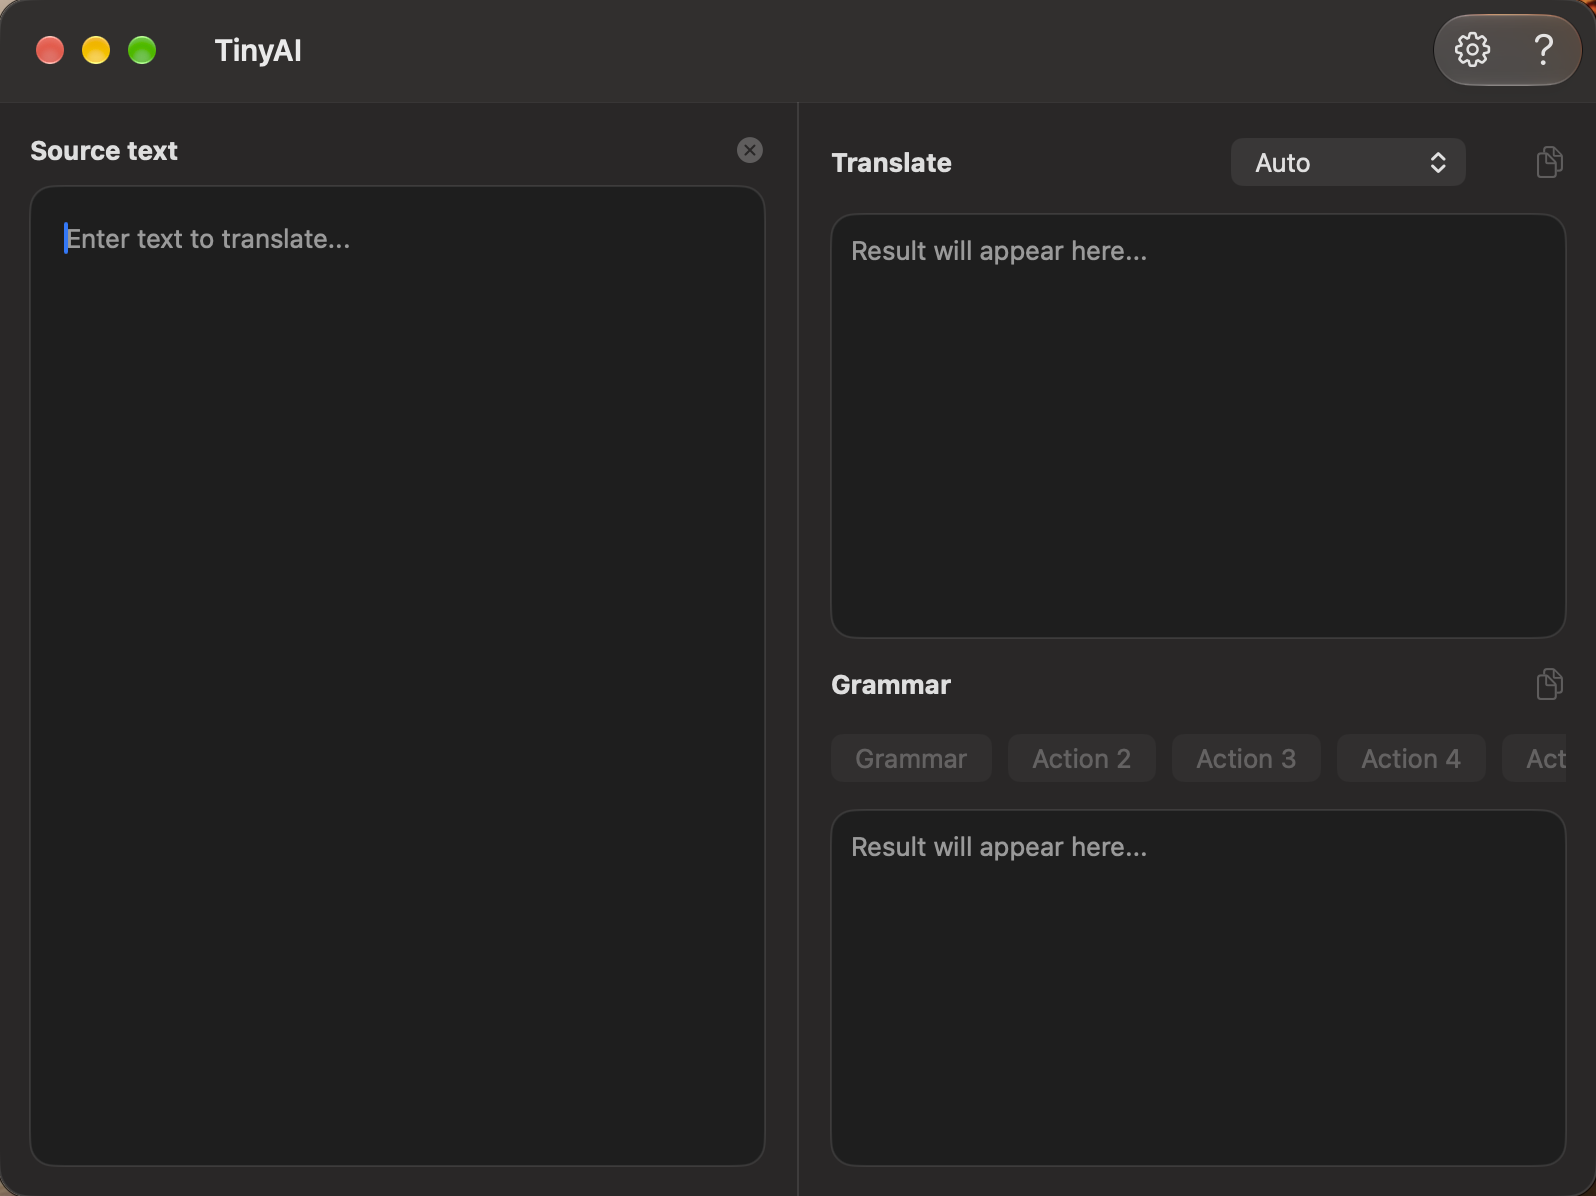
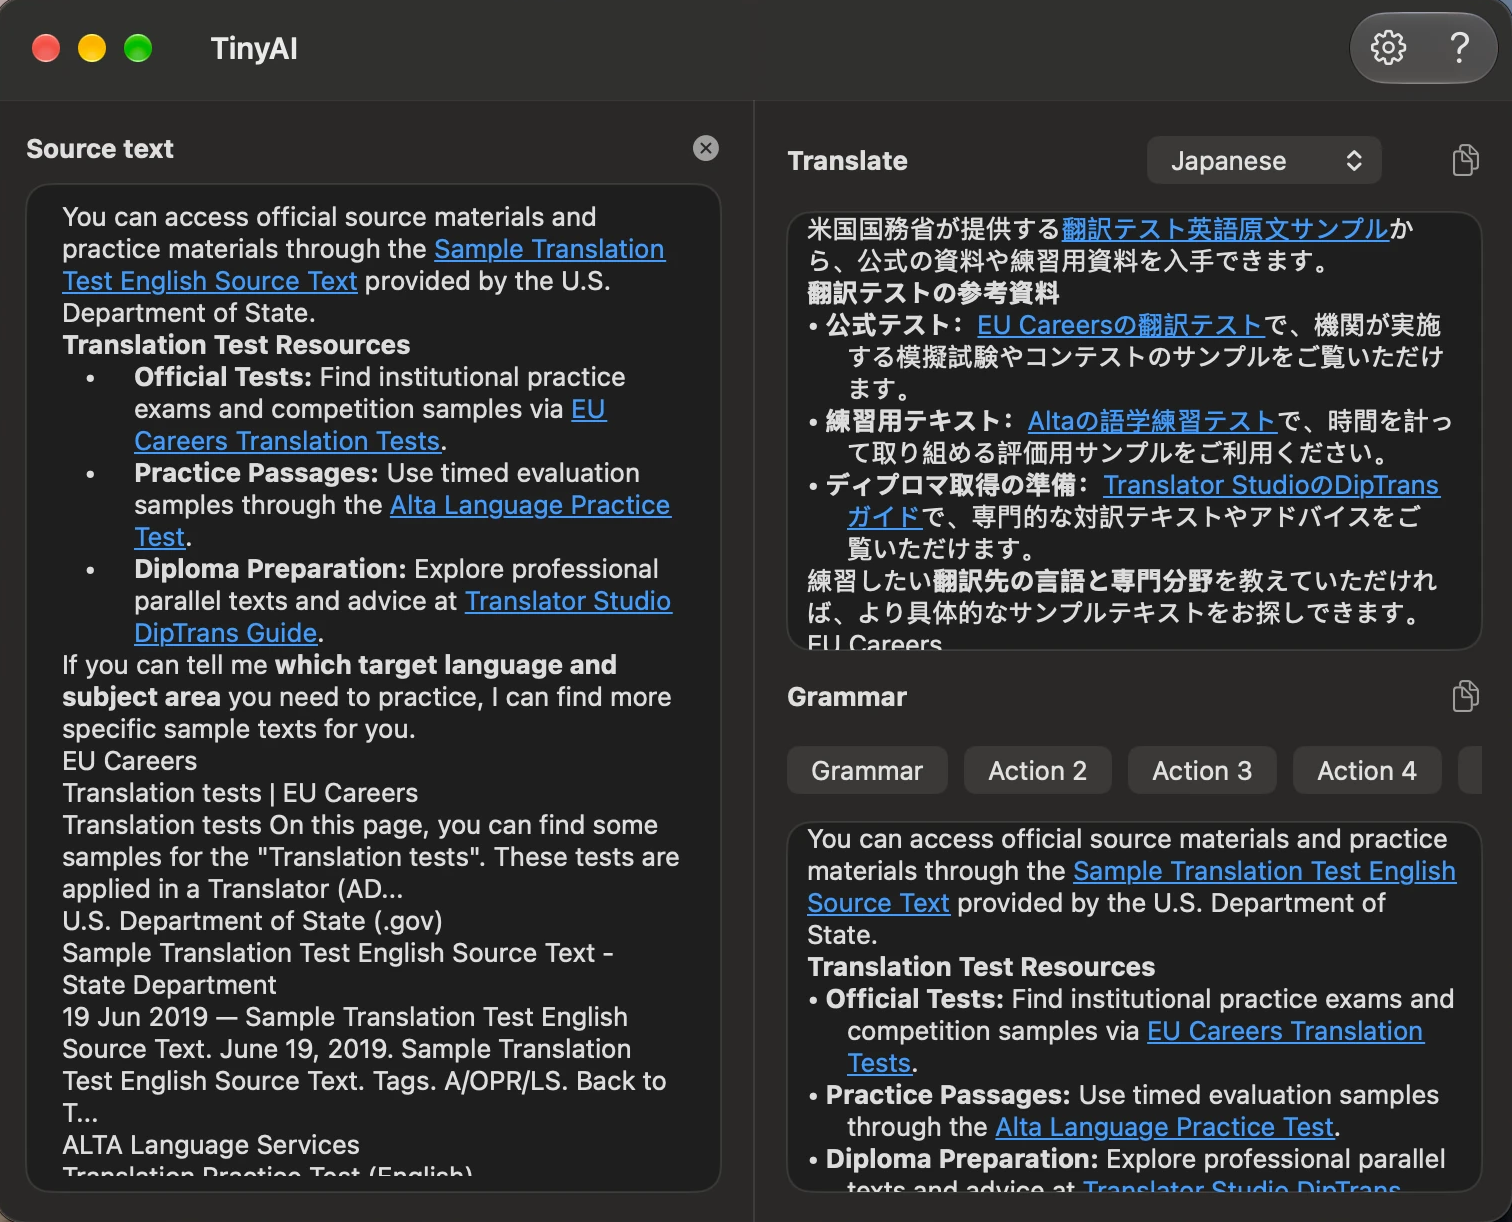
Show a filled main window in the README screenshot

diff --git a/README.md b/README.md
@@ -7,7 +7,7 @@ prompts on any text, either in its own window or right where you are typing.
   <img src="docs/popup.png" alt="TinyAI popup over a web page: the selected text translated into Japanese with formatting kept, and a Grammar result, each with Replace" width="420">
 </p>
 <p align="center">
-  <img src="docs/main-window.png" alt="TinyAI main window with source text, Translate and Grammar panels" width="720">
+  <img src="docs/main-window.png" alt="TinyAI main window: formatted English source with links, its Japanese translation and the Grammar result" width="720">
 </p>
 <p align="center">
   <img src="docs/dictation.png" alt="Dictation popup under the menu bar icon, showing live text while listening" width="420">
